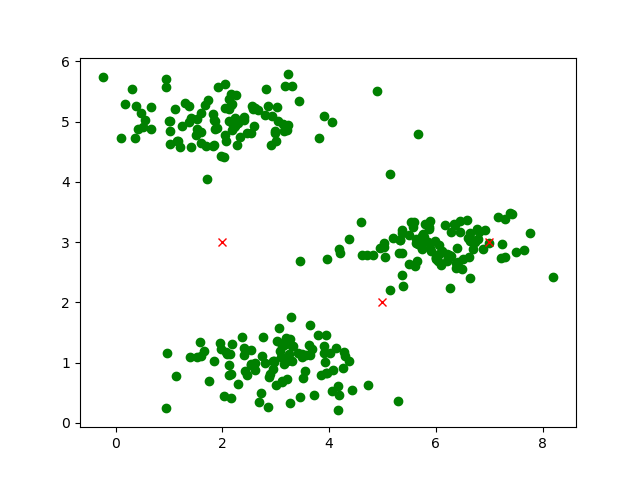
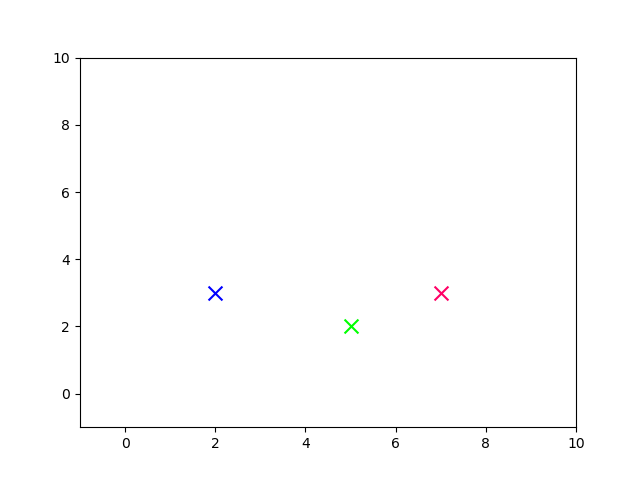
fixed plotting

diff --git a/kmeans_proj2.py b/kmeans_proj2.py
@@ -52,15 +52,35 @@ def recalculateCentroid(centroidMembership):
 
     return [totalX/len(centroidMembership), totalY/len(centroidMembership)]
 
-def doPlot(plt, X, centroids):
-    plt.plot(X[:, 0], X[:, 1], 'go')
-    plt.plot(centroids[:, 0], centroids[:, 1], 'rx')
+def plotCentroids(plt, centroids, colors):
+    
+    for i in range(len(centroids)):
+        plt.scatter(centroids[i, 0], centroids[i, 1], c=colors[i], marker='x', linestyle='None', s=100)
+    
+    return plt
+
+def doPlotCentroids(plt, centroids, colors):
+    plt = plotCentroids(plt, centroids, colors)
+    plt.xlim([-1, 10])
+    plt.ylim([-1, 10])
     plt.show()
 
-def doPlotWithOriginal(plt, X, originalCentroids, centroids):
+def doInitialPlot(plt, centroids, colors, X):
+    
     plt.plot(X[:, 0], X[:, 1], 'go')
-    plt.plot(originalCentroids[:, 0], originalCentroids[:, 1], 'rx')
-    plt.plot(centroids[:, 0], centroids[:, 1], c='b', marker='x', linestyle='None')
+    plt = plotCentroids(plt, centroids, colors)
+    plt.xlim([-1, 10])
+    plt.ylim([-1, 10])
+    plt.show()
+
+def doPlotMatchingXWithCentroid(plt, centroids, colors, centroidMemberships):
+    
+    for i in range(len(centroids)):
+        plt.scatter(centroids[i, 0], centroids[i, 1], c=colors[i], marker='x', linestyle='None', s=100)
+        membership = np.array(centroidMemberships[i])
+        plt.plot(membership[:,0], membership[:,1], c=colors[i], marker='o', linestyle='None')
+    plt.xlim([-1, 10])
+    plt.ylim([-1, 10])
     plt.show()
 
 datafile = 'kmeansdata.mat'
@@ -88,8 +108,11 @@ doStop = False
 
 originalCentroids = centroids.copy()
 currentCentroids = centroids.copy()
+colors=["#0000FF", "#00FF00", "#FF0066"]
 
-doPlot(plt, X, centroids)
+doInitialPlot(plt, centroids, colors, X)
+
+doOnce = False
 
 while doStop == False:
     dist = distanceBetweenPointsAndCentroids(X, centroids, K, dist)
@@ -101,11 +124,17 @@ while doStop == False:
 
     print(f'c0: {centroids[0]}, c1: {centroids[1]}, c2: {centroids[2]}')
     
-    doPlotWithOriginal(plt, X, originalCentroids, centroids)
+    if (not doOnce):
+        doPlotMatchingXWithCentroid(plt, centroids, colors, centroidMemberships)
+        doOnce = True
+
+    doPlotCentroids(plt, centroids, colors)
 
     if (np.array_equal(centroids, currentCentroids)):
         doStop = True
     else:
         currentCentroids = centroids.copy()
+
+doPlotMatchingXWithCentroid(plt, currentCentroids, colors, centroidMemberships)
 
 #print(oldGrpList)
